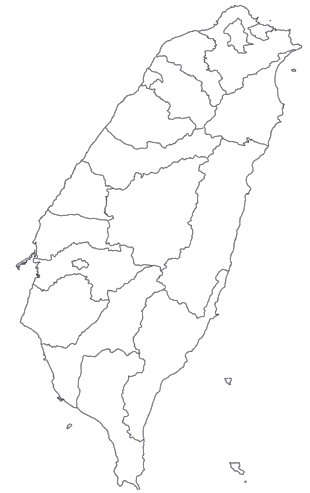
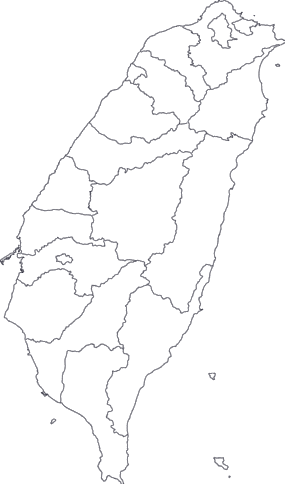
FIX:Map component

diff --git a/frontend/src/features/HaplotypeNetwork/components/FilteredTaiwanMap/MapControls.jsx b/frontend/src/features/HaplotypeNetwork/components/FilteredTaiwanMap/MapControls.jsx
@@ -27,12 +27,30 @@ const MapControls = ({
   };
 
   useEffect(() => {
-    if (selectedMap) {    
-      handleSwitchMap(selectedMap); 
-    } else {
-      resetMapSettings();
+  if (selectedMap) {
+    handleSwitchMap(selectedMap);
+  }
+}, [selectedMap]);
+
+const handleSelectMapChange = (e) => {
+  const value = e.target.value;
+  if (value === "") {
+    setActiveMapId("");
+    setMapImage(null);
+    resetMapSettings();
+    setSelectedMap(null); // 清空 selectedMap
+  } else if (value === "Customize") {
+    setActiveMapId("Customize");
+    setMapImage(null);
+    resetMapSettings();
+    setSelectedMap(null); // 清空 selectedMap
+  } else {
+    const map = mapImages.find((m) => m.id === value);
+    if (map) {
+      setSelectedMap(map); // 只改變 selectedMap
     }
-  }, [selectedMap, handleSwitchMap]);
+  }
+};
 
   return (
     <div className="map-settings-container">
@@ -42,24 +60,7 @@ const MapControls = ({
           <label>Select Map Image: 
            <select
               value={activeMapId ?? ""}
-              onChange={(e) => {
-                const value = e.target.value;
-                if (value === "") {
-                  setActiveMapId("");
-                  setMapImage(null);
-                  resetMapSettings();  
-                } else if (value === "Customize") {
-                  setActiveMapId("Customize");
-                  setMapImage(null);
-                  resetMapSettings();  
-                } else {
-                  const map = mapImages.find((m) => m.id === value);
-                  if (map) {
-                    setSelectedMap(map);  
-                    handleSwitchMap(map);
-                  }
-                }
-              }}
+               onChange={handleSelectMapChange}
             >
               <option value="">------ Select------</option>
               {mapImages.map((map) => (

diff --git a/frontend/src/features/HaplotypeNetwork/components/TaiwanMap/MapControls.jsx b/frontend/src/features/HaplotypeNetwork/components/TaiwanMap/MapControls.jsx
@@ -27,12 +27,30 @@ const MapControls = ({
   };
 
   useEffect(() => {
-    if (selectedMap) {    
-      handleSwitchMap(selectedMap); 
-    } else {
-      resetMapSettings();
+  if (selectedMap) {
+    handleSwitchMap(selectedMap);
+  }
+}, [selectedMap]);
+
+const handleSelectMapChange = (e) => {
+  const value = e.target.value;
+  if (value === "") {
+    setActiveMapId("");
+    setMapImage(null);
+    resetMapSettings();
+    setSelectedMap(null); // 清空 selectedMap
+  } else if (value === "Customize") {
+    setActiveMapId("Customize");
+    setMapImage(null);
+    resetMapSettings();
+    setSelectedMap(null); // 清空 selectedMap
+  } else {
+    const map = mapImages.find((m) => m.id === value);
+    if (map) {
+      setSelectedMap(map); // 只改變 selectedMap
     }
-  }, [selectedMap, handleSwitchMap]);
+  }
+};
 
   return (
     <div className="map-settings-container">
@@ -42,24 +60,7 @@ const MapControls = ({
           <label>Select Map Image: 
            <select
               value={activeMapId ?? ""}
-              onChange={(e) => {
-                const value = e.target.value;
-                if (value === "") {
-                  setActiveMapId("");
-                  setMapImage(null);
-                  resetMapSettings();  
-                } else if (value === "Customize") {
-                  setActiveMapId("Customize");
-                  setMapImage(null);
-                  resetMapSettings();  
-                } else {
-                  const map = mapImages.find((m) => m.id === value);
-                  if (map) {
-                    setSelectedMap(map);  
-                    handleSwitchMap(map);
-                  }
-                }
-              }}
+               onChange={handleSelectMapChange}
             >
               <option value="">------ Select------</option>
               {mapImages.map((map) => (

diff --git a/frontend/src/features/HaplotypeNetwork/components/TaiwanMap/hooks/useExportMap.js b/frontend/src/features/HaplotypeNetwork/components/TaiwanMap/hooks/useExportMap.js
@@ -6,7 +6,9 @@ export default function useExportMap(filteredCityGeneData, geneColors, selectedG
     if (!mapContainer) return;
 
     const html2canvas = (await import("html2canvas")).default;
-    const mapCanvas = await html2canvas(mapContainer);
+    const mapCanvas = await html2canvas(mapContainer, {
+      width: mapContainer.offsetWidth + 50,  
+    });
     const padding = 10;
     const fontSize = 16;
     const boxSize = 14;
@@ -14,14 +16,15 @@ export default function useExportMap(filteredCityGeneData, geneColors, selectedG
     const font = `${fontSize}px sans-serif`;
     const itemsPerColumn = 30;
 
-    const legendItems = (selectedGenes || []).map((name) => ({ name, color: geneColors[name] || "block" }));
+    const legendItems = (selectedGenes || []).map((name) => ({ name, color: geneColors[name] || "block" }));   
     const numCols = Math.ceil(legendItems.length / itemsPerColumn);
     const numRows = Math.min(legendItems.length, itemsPerColumn);
-    const legendWidth = 180 * numCols;
-    const legendHeight = padding * 2 + numRows * (fontSize + spacing);
+    const additionalMargin = 100;
+    const legendWidth = 180 * numCols + additionalMargin ;
+    const legendHeight = padding * 2 + numRows * (fontSize + spacing) ;
 
     const canvas = document.createElement("canvas");
-    canvas.width = mapCanvas.width + legendWidth;
+    canvas.width = mapCanvas.width + legendWidth + additionalMargin;
     canvas.height = Math.max(mapCanvas.height, legendHeight);
 
     const ctx = canvas.getContext("2d");
@@ -34,7 +37,7 @@ export default function useExportMap(filteredCityGeneData, geneColors, selectedG
     legendItems.forEach((item, i) => {
       const col = Math.floor(i / itemsPerColumn);
       const row = i % itemsPerColumn;
-      const x = mapCanvas.width + col * 180 + padding;
+      const x = mapCanvas.width + additionalMargin + col * 180 + padding;
       const y = padding + row * (fontSize + spacing) + fontSize / 2;
 
       ctx.fillStyle = item.color;

diff --git a/frontend/src/features/HaplotypeNetwork/components/GeneTable/GeneTableContent.jsx b/frontend/src/features/HaplotypeNetwork/components/GeneTable/GeneTableContent.jsx
@@ -112,17 +112,13 @@ const renderUploadWarning = () => {
           )}
         </>
       )}
+      */}
       {viewMode === "total" && (
         <>
-          {(!displayedHeaders || !Array.isArray(displayedHeaders) || displayedHeaders.length === 0) && (
-            <li> Upload Cvs File</li>
-          )}
-          {(!locations || !Array.isArray(locations) || locations.length === 0) && (
-            <li> Upload eDNA Sample Station (xlsx)</li>
-          )}
+          {(!displayedHeaders || !Array.isArray(displayedHeaders) || displayedHeaders.length === 0) }
+          {(!locations || !Array.isArray(locations) || locations.length === 0)}
         </>
       )}
-      */}
       
     </>
   );

diff --git a/frontend/src/features/HaplotypeNetwork/data/mapImages.js b/frontend/src/features/HaplotypeNetwork/data/mapImages.js
@@ -1,6 +1,6 @@
 // src/data/mapImages.js 
-import TW1 from "../../../assets/haplotype/TW.png";
-import TW2 from "../../../assets/haplotype/japan-map.png";
+import TW1 from "../../../assets/haplotype/TW.png"; 
+import TW2 from "../../../assets/haplotype/japan-map.png"; 
 import TW3 from "../../../assets/haplotype/world-map.png";
 
 export const mapImages = [
@@ -8,8 +8,8 @@ export const mapImages = [
     id: "tw1",
     name: "Taiwan-Map",
     src: TW1,
-    defaultLonRange: [120, 122],
-    defaultLatRange: [21.5, 25.5],
+    defaultLonRange: [120.01, 122.03],
+    defaultLatRange: [21.90, 25.29],
     lonDirMin: "E",
     lonDirMax: "E",
     latDirMin: "N",

diff --git a/frontend/src/features/HaplotypeNetwork/components/FilteredTaiwanMap/GeneList.jsx b/frontend/src/features/HaplotypeNetwork/components/FilteredTaiwanMap/GeneList.jsx
@@ -127,10 +127,10 @@ const GeneList = ({
       {/* 如果設定完成，顯示原本的內容 */}
       <div style={{ display: "flex", gap: "10px", marginBottom: "15px" }}>
         <button onClick={() => setShowGenes(true)} className="GeneList-button-Select">
-          Display selected ASV
+          Selected ASV
         </button>
         <button onClick={() => setShowGenes(false)} className="GeneList-button-Select">
-          Display selected Locations
+          Selected Locations
         </button>
       </div>
 
@@ -158,7 +158,7 @@ const GeneList = ({
 
           {/* Genes List */}
           <div style={{ maxHeight: "800px", overflowY: "auto", paddingRight: "5px" }}>
-            {filteredGenes.map((name) => {
+            {currentGenes.map((name) => {
               const isEnabled =
                 name === selectedGene ||
                 (Array.isArray(activeSimilarityGroup) && activeSimilarityGroup.includes(name));

diff --git a/frontend/src/features/HaplotypeNetwork/components/FilteredTaiwanMap/MapMainView.jsx b/frontend/src/features/HaplotypeNetwork/components/FilteredTaiwanMap/MapMainView.jsx
@@ -118,7 +118,7 @@ const MapMainView = ({
                 id="map-container"
                 style={{
                   position: "relative",
-                  width: conW + 50 ,
+                  width: conW ,
                   height: conH,
                   userSelect: "none"
                 }}

diff --git a/frontend/src/features/HaplotypeNetwork/components/TaiwanMap/MapMainView.jsx b/frontend/src/features/HaplotypeNetwork/components/TaiwanMap/MapMainView.jsx
@@ -115,7 +115,7 @@ const MapMainView = ({
                 id="map-container"
                 style={{
                   position: "relative",
-                  width: conW + 50,
+                  width: conW ,
                   height: conH,
                   userSelect: "none"
                 }}